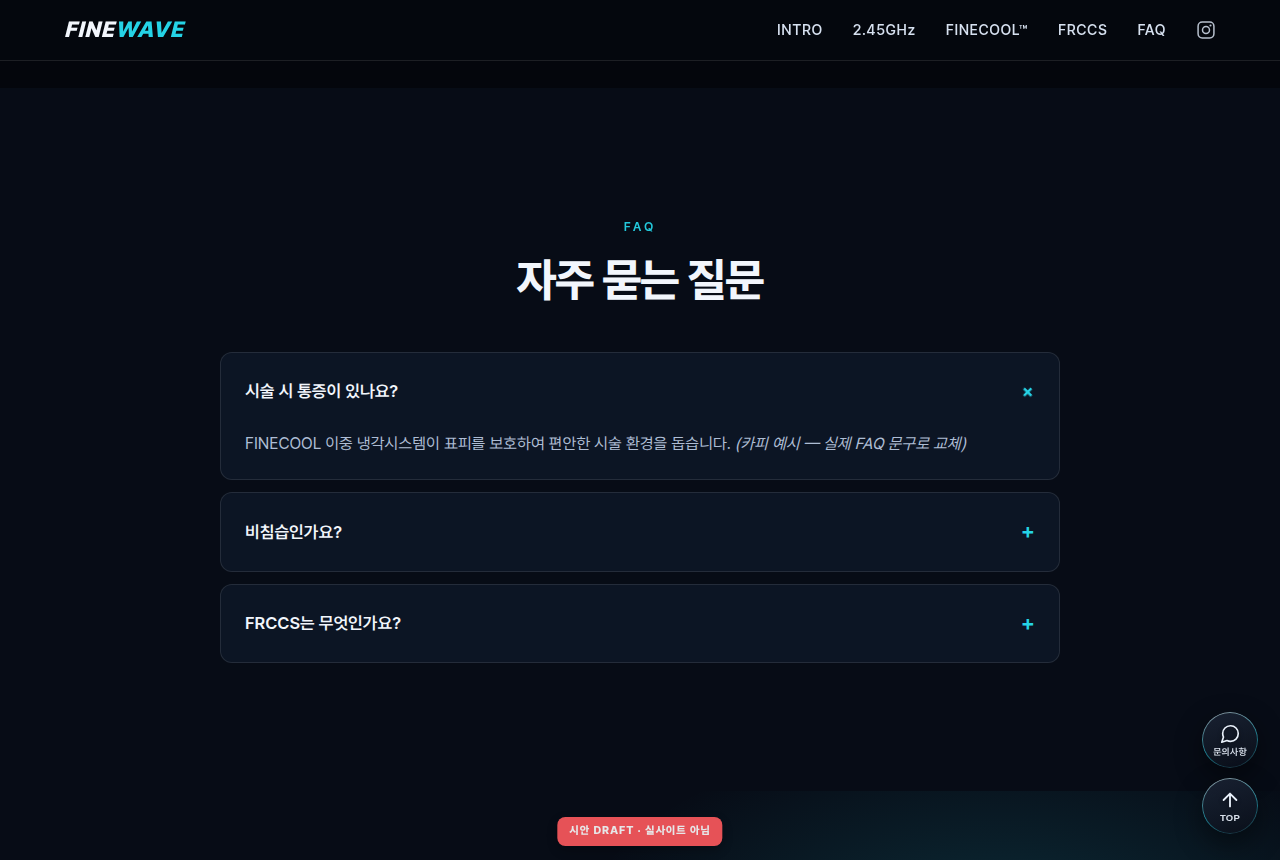
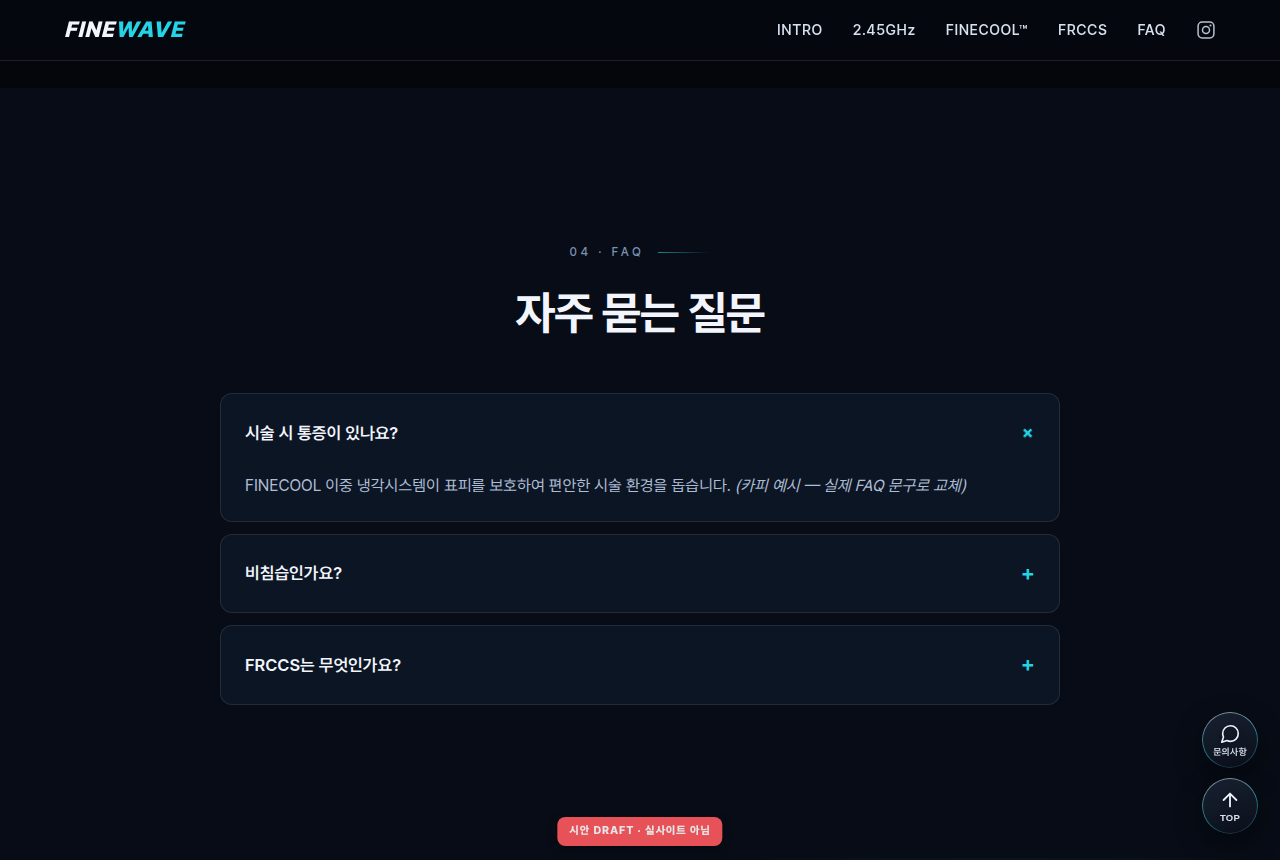
feat(finewave): 시안 v4 — sherean 레퍼런스 톤 보완
클라이언트 레퍼런스(sherean.co.kr)의 모션 감도·여백 문법 기준 보완:
- 등장 모션 1.15s + 형제 자동 시차 + 이미지 스케일-인
- 히어로 로드 시퀀스(로고→태그라인→장비→카피→CTA) + SCROLL 인디케이터
- 섹션 여백 최대 165px, 섹션 넘버링(01~04) 에디토리얼 디테일
- 큰 한글 문장 굵기 정제(590~690), 브랜드 스테이트먼트 밴드 신설
- 리플렉션 마스크 방향/특이도 버그 수정(장비 인접부만 은은하게)

참고: sherean.co.kr 직접 접속은 egress 정책상 차단 → PPTX에 명시된
요구("서서히 나타나는 느낌")와 해당 계열 디자인 문법 기준으로 보완.

Claude-Session: https://claude.ai/code/session_018nzHGbAUK6D3bYwrNkvjKd

Changed region(s): [[0.1875, 0.4233, 0.75, 0.5744], [0.1875, 0.6047, 0.3125, 0.786], [0.4062, 0.2721, 0.5938, 0.393]]

diff --git a/output/mockup/index.html b/output/mockup/index.html
@@ -48,7 +48,7 @@ img{max-width:100%;display:block}
 .fw-wrap{max-width:var(--maxw);margin:0 auto;padding:0 24px}
 /* 폰트 확대 요청 반영: 본문 최소 16px */
 .fw-eyebrow{color:var(--cyan);font-size:12.5px;font-weight:600;letter-spacing:.24em;text-transform:uppercase;margin-bottom:14px;opacity:.95}
-h2.fw-h2{font-size:clamp(30px,4.4vw,46px);font-weight:750;line-height:1.22;letter-spacing:-.035em}
+h2.fw-h2{font-size:clamp(30px,4.4vw,46px);font-weight:690;line-height:1.24;letter-spacing:-.03em}
 .fw-lead{color:var(--muted);font-size:clamp(16px,1.7vw,18.5px);font-weight:380;letter-spacing:-.008em;line-height:1.85;margin-top:18px;max-width:660px}
 .fw-btn{display:inline-flex;align-items:center;gap:8px;padding:15px 30px;border-radius:999px;
   font-weight:700;font-size:16px;transition:transform .2s,box-shadow .2s,background .2s}
@@ -89,7 +89,7 @@ h2.fw-h2{font-size:clamp(30px,4.4vw,46px);font-weight:750;line-height:1.22;lette
 .fw-hero__logo{font-style:italic;font-weight:870;font-size:clamp(44px,6.5vw,84px);letter-spacing:.015em;line-height:1.05}
 .fw-hero__tag{color:#c6d5ea;font-size:clamp(15px,1.8vw,20px);font-weight:280;letter-spacing:.34em;text-transform:uppercase;margin-top:16px;
   padding-top:16px;border-top:1px solid rgba(255,255,255,.18);display:inline-block}
-.fw-hero__copy{margin-top:36px;font-size:clamp(22px,2.7vw,31px);font-weight:680;letter-spacing:-.03em;line-height:1.38}
+.fw-hero__copy{margin-top:36px;font-size:clamp(22px,2.7vw,31px);font-weight:590;letter-spacing:-.025em;line-height:1.42}
 .fw-hero__copy small{display:block;font-size:clamp(15px,1.6vw,17.5px);font-weight:360;letter-spacing:-.005em;color:var(--muted);margin-top:10px}
 .fw-hero__cta{display:flex;gap:14px;margin-top:36px;flex-wrap:wrap}
 /* ── 3D 장비 연출: 퍼스펙티브 틸트 + 플로팅 + 글로우 + 리플렉션 ──
@@ -110,11 +110,12 @@ h2.fw-h2{font-size:clamp(30px,4.4vw,46px);font-weight:750;line-height:1.22;lette
   mask:radial-gradient(72% 78% at 50% 50%,#000 46%,transparent 86%);
   filter:drop-shadow(0 34px 50px rgba(0,0,0,.55))}
 /* 바닥 리플렉션 */
-.fw-3d__reflect{
+.fw-3d img.fw-3d__reflect{   /* .fw-3d img 의 radial 마스크보다 높은 특이도로 오버라이드 */
   position:absolute;top:99%;left:0;width:100%;transform:scaleY(-1);
   opacity:.11;filter:blur(4px);pointer-events:none;
-  -webkit-mask:linear-gradient(0deg,transparent 62%,rgba(0,0,0,.85) 100%);
-  mask:linear-gradient(0deg,transparent 62%,rgba(0,0,0,.85) 100%)}
+  /* scaleY(-1)로 마스크도 뒤집힘: 언플립 기준 하단(=시각적 상단, 장비 인접부)만 보이고 페이드 */
+  -webkit-mask:linear-gradient(0deg,rgba(0,0,0,.85) 0%,transparent 42%);
+  mask:linear-gradient(0deg,rgba(0,0,0,.85) 0%,transparent 42%)}
 /* 하단 앰비언트 글로우 */
 .fw-hero__device::after{
   content:"";position:absolute;left:50%;bottom:-8%;transform:translateX(-50%);
@@ -124,7 +125,7 @@ h2.fw-h2{font-size:clamp(30px,4.4vw,46px);font-weight:750;line-height:1.22;lette
 @keyframes fw-glow-pulse{0%,100%{opacity:.55}50%{opacity:1}}
 
 /* ═══════ 2.45GHz: 새 웨이브 배경(T2) + 장비 확대 + 큰 폰트 ═══════ */
-.fw-sec{padding:clamp(80px,10vw,130px) 0}
+.fw-sec{padding:clamp(100px,12vw,165px) 0}
 .fw-sec--wave{isolation:isolate;overflow:hidden;background:linear-gradient(180deg,var(--bg-1),var(--bg-0))}
 .fw-secwaves{position:absolute;inset:0;z-index:0;opacity:.55;will-change:transform;animation:fw-flow 34s linear infinite}
 @keyframes fw-flow{0%{transform:translateX(0)}100%{transform:translateX(-16%)}}
@@ -198,9 +199,46 @@ h2.fw-h2{font-size:clamp(30px,4.4vw,46px);font-weight:750;line-height:1.22;lette
 .fw-float__top{opacity:0;transform:translateY(10px) scale(.9);pointer-events:none}
 .fw-float__top.is-visible{opacity:1;transform:translateY(0) scale(1);pointer-events:auto}
 
-/* ═══════ 서서히 등장 (T8) ═══════ */
-.fw-reveal{opacity:0;transform:translateY(22px);transition:opacity .8s cubic-bezier(.22,.61,.36,1),transform .8s cubic-bezier(.22,.61,.36,1)}
+/* ═══════ 서서히 등장 (T8 · sherean 감도: 느리고 우아하게) ═══════ */
+.fw-reveal{opacity:0;transform:translateY(30px);
+  transition:opacity 1.15s cubic-bezier(.16,.68,.32,.98),transform 1.15s cubic-bezier(.16,.68,.32,.98);
+  transition-delay:var(--fw-d,0s)}
 .fw-reveal.is-in{opacity:1;transform:none}
+/* 같은 그룹 형제 자동 시차 */
+.fw-reveal:nth-child(2){--fw-d:.12s}
+.fw-reveal:nth-child(3){--fw-d:.24s}
+.fw-reveal:nth-child(4){--fw-d:.36s}
+.fw-reveal:nth-child(n+5){--fw-d:.48s}
+/* 이미지 리빌: 은은한 스케일-인 */
+.fw-reveal img{transform:scale(1.045);transition:transform 1.5s cubic-bezier(.16,.68,.32,.98)}
+.fw-reveal.is-in img{transform:scale(1)}
+
+/* 히어로 로드 시퀀스 (스크롤 아닌 최초 로드: 로고→태그라인→카피→CTA) */
+.fw-load{opacity:0;transform:translateY(26px);
+  animation:fw-load-in 1.2s cubic-bezier(.16,.68,.32,.98) forwards;
+  animation-delay:var(--fw-d,0s)}
+@keyframes fw-load-in{to{opacity:1;transform:none}}
+
+/* 스크롤 인디케이터 */
+.fw-scrollhint{position:absolute;left:50%;bottom:34px;transform:translateX(-50%);z-index:2;
+  display:flex;flex-direction:column;align-items:center;gap:10px;color:#8ea3c0;
+  font-size:10.5px;letter-spacing:.3em;text-transform:uppercase}
+.fw-scrollhint::after{content:"";width:1px;height:44px;
+  background:linear-gradient(180deg,rgba(255,255,255,.55),transparent);
+  animation:fw-hint 2.2s ease-in-out infinite;transform-origin:top}
+@keyframes fw-hint{0%{transform:scaleY(0)}45%{transform:scaleY(1)}100%{transform:scaleY(1);opacity:0}}
+
+/* 섹션 넘버 라벨 (에디토리얼) */
+.fw-secno{display:flex;align-items:center;gap:14px;color:#7a90b0;font-size:12px;
+  letter-spacing:.3em;font-weight:500;margin-bottom:22px}
+.fw-secno::after{content:"";flex:0 0 52px;height:1px;background:linear-gradient(90deg,rgba(37,211,230,.6),transparent)}
+
+/* 브랜드 스테이트먼트 밴드 */
+.fw-statement{padding:clamp(110px,14vw,180px) 0;text-align:center;
+  background:linear-gradient(180deg,var(--bg-0),#081120 50%,var(--bg-0))}
+.fw-statement p{font-size:clamp(24px,3.4vw,40px);font-weight:330;line-height:1.6;letter-spacing:-.01em;color:#dbe6f4}
+.fw-statement b{font-weight:650;color:#fff}
+.fw-statement small{display:block;margin-top:26px;color:var(--cyan);font-size:12px;letter-spacing:.3em;text-transform:uppercase;font-weight:600}
 
 /* ═══════ 반응형 ═══════ */
 @media (max-width:900px){
@@ -219,9 +257,11 @@ h2.fw-h2{font-size:clamp(30px,4.4vw,46px);font-weight:750;line-height:1.22;lette
 }
 @media (prefers-reduced-motion: reduce){
   html{scroll-behavior:auto}
-  .fw-hero__waves,.fw-secwaves,.fw-beam__on,.fw-3d,.fw-hero__device::after{animation:none!important}
+  .fw-hero__waves,.fw-secwaves,.fw-beam__on,.fw-3d,.fw-hero__device::after,
+  .fw-load,.fw-scrollhint::after{animation:none!important}
   .fw-beam__on{opacity:.35}
-  .fw-reveal{opacity:1;transform:none;transition:none}
+  .fw-reveal,.fw-load{opacity:1;transform:none;transition:none}
+  .fw-reveal img{transform:none;transition:none}
   .fw-3d{transform:none!important}
 }
 </style>
@@ -269,16 +309,16 @@ h2.fw-h2{font-size:clamp(30px,4.4vw,46px);font-weight:750;line-height:1.22;lette
   <div class="fw-wrap">
     <div class="fw-hero__grid">
       <div>
-        <div class="fw-hero__logo fw-reveal">FINE<span style="color:var(--cyan)">WAVE</span></div>
-        <div class="fw-hero__tag fw-reveal">Go Fine. Get Defined.</div>
-        <p class="fw-hero__copy fw-reveal">Rubbing의 한계를 넘어서다.
+        <div class="fw-hero__logo fw-load" style="--fw-d:.15s">FINE<span style="color:var(--cyan)">WAVE</span></div>
+        <div class="fw-hero__tag fw-load" style="--fw-d:.4s">Go Fine. Get Defined.</div>
+        <p class="fw-hero__copy fw-load" style="--fw-d:.65s">Rubbing의 한계를 넘어서다.
           <small>방식을 바꾸면 결과가 달라집니다.</small></p>
-        <div class="fw-hero__cta fw-reveal">
+        <div class="fw-hero__cta fw-load" style="--fw-d:.9s">
           <a class="fw-btn fw-btn--primary" href="#contact">도입 문의하기</a>
           <a class="fw-btn fw-btn--ghost" href="#tech">기술 살펴보기</a>
         </div>
       </div>
-      <div class="fw-hero__device fw-reveal">
+      <div class="fw-hero__device fw-load" style="--fw-d:.55s">
         <div class="fw-3d" id="fw3d">
           <img src="assets/device-front.png" alt="FINEWAVE 장비 정면 — 듀얼 핸드피스와 터치 스크린">
           <img class="fw-3d__reflect" src="assets/device-front.png" alt="" aria-hidden="true">
@@ -286,6 +326,7 @@ h2.fw-h2{font-size:clamp(30px,4.4vw,46px);font-weight:750;line-height:1.22;lette
       </div>
     </div>
   </div>
+  <div class="fw-scrollhint fw-load" style="--fw-d:1.4s">Scroll</div>
 </section>
 
 <!-- ══════════ 2.45GHz: 실카피 + 장비 확대 + 새 웨이브(T2) ══════════ -->
@@ -302,6 +343,7 @@ h2.fw-h2{font-size:clamp(30px,4.4vw,46px);font-weight:750;line-height:1.22;lette
     <div class="fw-split">
       <div>
         <div class="fw-reveal">
+          <div class="fw-secno">01 · Technology</div>
           <h2 class="fw-h2">2.45GHz<br>마이크로웨이브 기술</h2>
           <div class="fw-eyebrow" style="margin-top:16px">— Microwave Technology</div>
           <p class="fw-lead">파인웨이브는 피부 표면은 안전하게 보호하면서,<br>
@@ -330,6 +372,7 @@ h2.fw-h2{font-size:clamp(30px,4.4vw,46px);font-weight:750;line-height:1.22;lette
       </div>
       <div>
         <div class="fw-reveal">
+          <div class="fw-secno">02 · Cooling</div>
           <h2 class="fw-h2">FINECOOL™<br>이중 냉각시스템</h2>
           <div class="fw-eyebrow" style="margin-top:16px">— Cooling Technology</div>
           <p class="fw-lead">펠티어(Peltier)와 칠러(Chiller)를 결합한<br>
@@ -348,10 +391,19 @@ h2.fw-h2{font-size:clamp(30px,4.4vw,46px);font-weight:750;line-height:1.22;lette
   </div>
 </section>
 
+<!-- ══════════ 브랜드 스테이트먼트 (감성 카피 밴드 · 카피 예시) ══════════ -->
+<section class="fw-statement">
+  <div class="fw-wrap">
+    <p class="fw-reveal">피부 속 깊은 곳까지,<br><b>파도처럼 부드럽게 그리고 정확하게.</b></p>
+    <small class="fw-reveal">Fine Energy, Defined Result</small>
+  </div>
+</section>
+
 <!-- ══════════ FRCCS: 실카피 + 실카드, NO CONTACT 어둡게(T7) ══════════ -->
 <section class="fw-sec fw-frccs" id="frccs">
   <div class="fw-wrap">
     <div class="fw-reveal">
+      <div class="fw-secno" style="justify-content:center">03 · FRCCS</div>
       <h2 class="fw-frccs__title">Forward-Reverse<br>Contact Control System</h2>
       <div class="fw-eyebrow" style="margin-top:18px">Contact Control System</div>
       <p class="fw-lead" style="margin-left:auto;margin-right:auto;text-align:center">
@@ -374,8 +426,8 @@ h2.fw-h2{font-size:clamp(30px,4.4vw,46px);font-weight:750;line-height:1.22;lette
 <!-- ══════════ FAQ ══════════ -->
 <section class="fw-sec" id="faq" style="background:var(--bg-1)">
   <div class="fw-wrap">
-    <div class="fw-reveal" style="text-align:center;margin-bottom:44px">
-      <div class="fw-eyebrow">FAQ</div>
+    <div class="fw-reveal" style="text-align:center;margin-bottom:52px">
+      <div class="fw-secno" style="justify-content:center">04 · FAQ</div>
       <h2 class="fw-h2">자주 묻는 질문</h2>
     </div>
     <div class="fw-faq fw-reveal">

diff --git a/output/mockup/PREVIEW.md b/output/mockup/PREVIEW.md
@@ -1,5 +1,15 @@
-# FINEWAVE 홈페이지 리뉴얼 — 시안 v3 미리보기 (DRAFT)
+# FINEWAVE 홈페이지 리뉴얼 — 시안 v4 미리보기 (DRAFT)
 
+> **v4 변경점 (sherean.co.kr 레퍼런스 톤 보완)**
+> 클라이언트 레퍼런스(sherean)의 모션 감도·여백 문법 기준으로 보완:
+> 1. **등장 모션 감도**: 1.15s로 느리고 부드럽게 + 형제 요소 자동 시차(0.12s 계단) + 이미지 스케일-인(1.045→1)
+> 2. **히어로 로드 시퀀스**: 로고 → 태그라인 → 장비 → 카피 → CTA 순차 등장(스크롤 전 최초 로드)
+> 3. **브레딩 룸**: 섹션 상하 여백 최대 165px로 확대
+> 4. **에디토리얼 디테일**: 섹션 넘버링(01 Technology / 02 Cooling / 03 FRCCS / 04 FAQ) + SCROLL 인디케이터
+> 5. **타이포 우아하게**: 큰 한글 문장 굵기 하향(590~690), 리듬 정리
+> 6. **브랜드 스테이트먼트 밴드** 신설: "피부 속 깊은 곳까지, 파도처럼 부드럽게 그리고 정확하게." (카피 예시)
+> 7. 리플렉션 마스크 방향 수정(장비 인접부만 은은하게)
+>
 > **v3 변경점 (디자인 고급화)**
 > 1. **폰트 교체**: Pretendard Variable을 파일로 내장(외부 CDN 의존 0) — 제목 자간 -0.035em·굵기 정제, 태그라인 "GO FINE. GET DEFINED." 와이드 레터스페이싱, 본문 가독 굵기/행간 조정
 > 2. **플로팅 버튼 리디자인**: 모난 사각 → **글래스 서클**(블러+그라디언트 헤어라인 보더+시안 글로우 호버)
@@ -45,6 +55,9 @@
 
 ### 3) FINECOOL™ — **실사이트 빔 이미지** 깜빡임(정지컷은 off 프레임)
 ![finecool](preview-images/sec-finecool.png)
+
+### 3-b) 브랜드 스테이트먼트 밴드 (신설 · 카피 예시)
+![statement](preview-images/sec-statement.png)
 
 ### 4) FRCCS — 실카드, **NO CONTACT만 어둡게**
 ![frccs](preview-images/sec-frccs.png)
